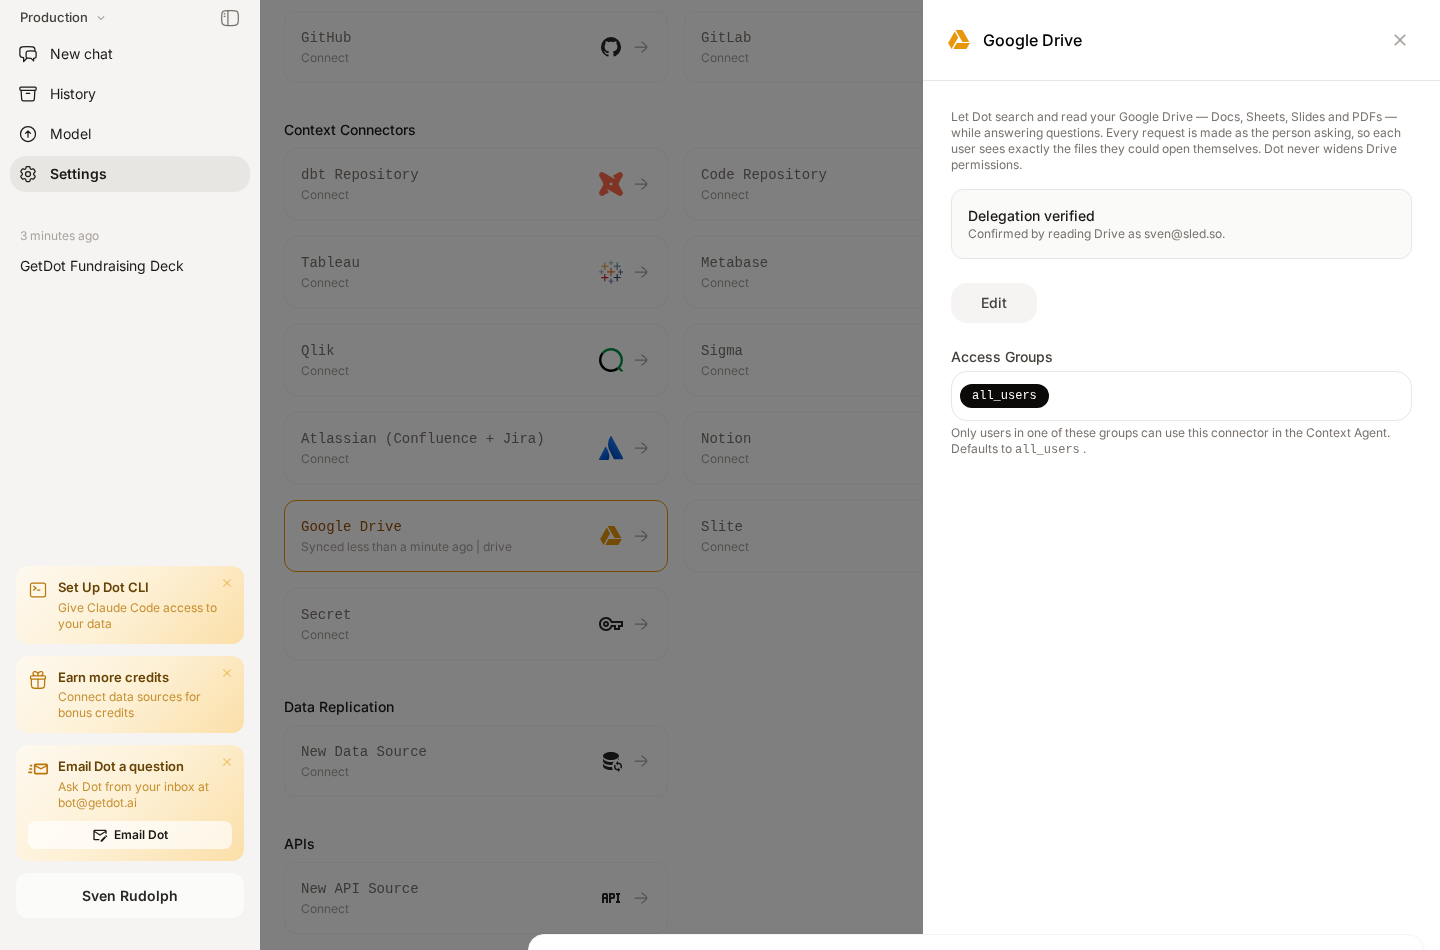
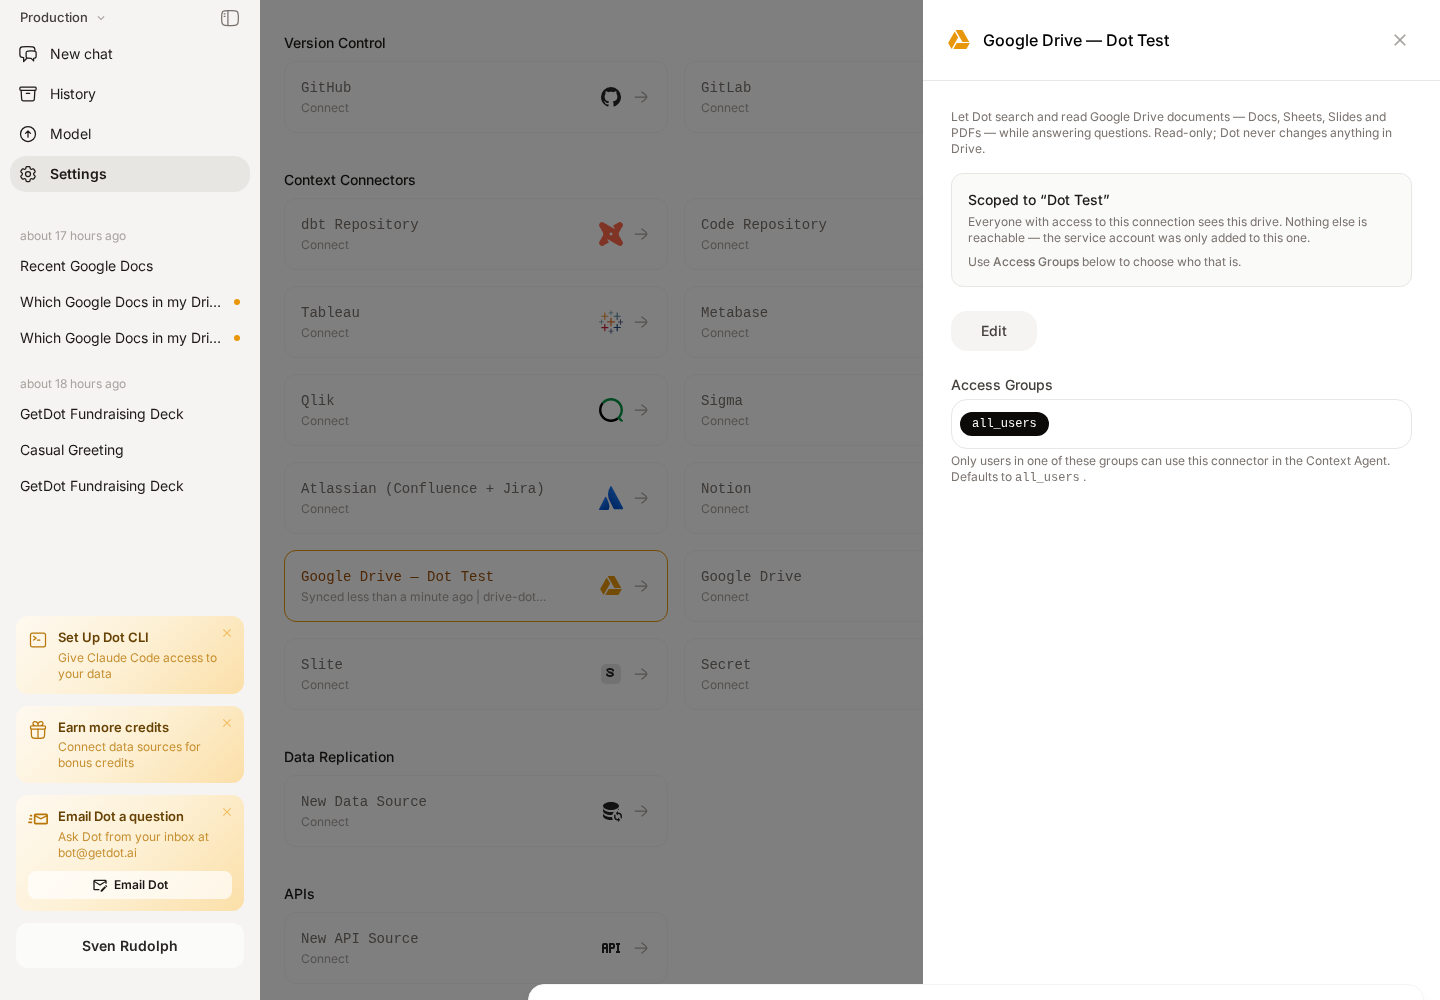
docs: Drive scope can be a folder, not only a shared drive
Shared drives require a Workspace edition that has them; sharing an
ordinary folder works everywhere. The page assumed shared drives
throughout, which would have read as 'not available' to anyone on a
smaller plan.

Screenshots replaced with real ones from a working folder-scoped
connection, including an answer citing the file it came from.

diff --git a/dot/dot/integrations/knowledge-bases/google-drive.md b/dot/dot/integrations/knowledge-bases/google-drive.md
@@ -1,7 +1,7 @@
 ---
 description: >-
   Let Dot search and read your Google Drive — Docs, Sheets, Slides, and PDFs —
-  scoped to exactly the drives you choose.
+  scoped to exactly the folders or drives you choose.
 ---
 
 # Google Drive
@@ -14,14 +14,14 @@ The connector is **read-only**. Dot never creates, edits, or deletes anything in
 
 You choose per connection, when you connect. Most workspaces want the first.
 
-### One shared drive (default)
+### A folder or shared drive (default)
 
-You add a service account to **one shared drive**, and everyone you grant access to sees that drive. The credential can reach nothing else — not because Dot filters it, but because Google never gave it access to anything else.
+You share **one folder** (or a shared drive) with a service account, and everyone you grant access to sees it. The credential can reach nothing else — not because Dot filters it, but because Google never gave it access to anything else. Sharing applies to everything inside the folder, so subfolders come along automatically.
 
-Different teams get different drives: repeat the setup with a **separate service account per drive**. Each becomes its own connection with its own Access Groups, so Finance sees the Finance drive and nobody else's.
+Different teams get different content: repeat the setup with a **separate service account per scope**. Each becomes its own connection with its own Access Groups, so Finance sees the Finance folder and nobody else's.
 
 {% hint style="info" %}
-**Why this is the default.** Dot chooses which credential to use; Google decides what that credential can see. Dot keeps no copy of your Drive permissions, so nothing can drift out of sync with them. It also needs no Workspace admin — adding a member to a shared drive is something any drive manager can do — and it works in Slack and Teams.
+**Why this is the default.** Dot chooses which credential to use; Google decides what that credential can see. Dot keeps no copy of your Drive permissions, so nothing can drift out of sync with them. It needs no Workspace admin — sharing a folder is something anyone who owns one can do, on every Workspace edition — and it works in Slack and Teams.
 {% endhint %}
 
 ### Each user's own Drive
@@ -44,11 +44,11 @@ What it costs: a Workspace **super-admin** must authorize the service account, t
 1. In [Google Cloud → Service accounts](https://console.cloud.google.com/iam-admin/serviceaccounts), create a service account and download a **JSON key**.
 2. Enable the [Google Drive API](https://console.cloud.google.com/apis/library/drive.googleapis.com) on the same project.
 
-### 2a. Shared drive mode
+### 2a. Folder or shared drive mode
 
-In Google Drive, open the shared drive you want Dot to read and add the service account's **`client_email`** as a member with **Viewer** access.
+In Google Drive, right-click the folder you want Dot to read → **Share**, and add the service account's **`client_email`** as a **Viewer**. Untick *Notify people* — a service account has no inbox. If your edition has shared drives, adding it as a member of one works the same way.
 
-That membership *is* the scope — there is nothing else to configure, and nothing else is reachable.
+What you shared *is* the scope — there is nothing else to configure, and nothing else is reachable.
 
 ### 2b. Per-user mode
 
@@ -69,13 +69,13 @@ Go to **Settings → Connections → Google Drive**, pick the mode, paste the ke
 
 <figure><img src="../../../.gitbook/assets/drive-connect-form.png" alt="The Google Drive connection form in Dot, showing the choice between one shared drive and each user's own Drive, with the service account key field and setup steps"><figcaption><p>The setup steps change with the mode you pick.</p></figcaption></figure>
 
-Dot verifies against Google **before saving**. In shared mode, if the account hasn't been added to any shared drive, the connect is refused and the error names the exact address to add — so a half-finished setup can't sit there looking connected and then fail for everyone later.
+Dot verifies against Google **before saving**. If the account can't see anything yet, the connect is refused and the error names the exact address to share with — so a half-finished setup can't sit there looking connected and then fail for everyone later.
 
-<figure><img src="../../../.gitbook/assets/drive-connected-verified.png" alt="A connected Google Drive card in Dot showing the scope it was verified against"><figcaption><p>A connection is only saved once Dot has actually read Drive with it.</p></figcaption></figure>
+<figure><img src="../../../.gitbook/assets/drive-connected-verified.png" alt="A connected Google Drive card in Dot, showing the folder it is scoped to and the access groups that may use it"><figcaption><p>The card names the scope, and Access Groups decides who can use it.</p></figcaption></figure>
 
 ### 4. Choose who can use it
 
-Set **Access Groups** on the connection. Only users in those groups can reach that drive through Dot.
+Set **Access Groups** on the connection. Only users in those groups can reach that content through Dot.
 
 ## Using it
 
@@ -86,6 +86,8 @@ Just ask. Dot decides when Drive is relevant:
 - *"What changed in the onboarding runbook recently?"*
 
 Dot searches **Drive's own full-text index**, which covers the contents of Docs, Sheets, Slides and PDFs — not just file names. If you can reach several drives, one search covers all of them and each result says which drive it came from.
+
+<figure><img src="../../../.gitbook/assets/drive-answer-example.png" alt="Dot answering a question from a document in Drive, with a link back to the source file"><figcaption><p>Answers cite the file they came from.</p></figcaption></figure>
 
 ## What Dot can do
 
@@ -126,7 +128,7 @@ Long documents are read in pages, so Dot can work through a large file without l
 
 - **Read-only.** Dot cannot create, edit, or delete Drive files.
 - **Google Workspace only** — personal Gmail accounts aren't supported.
-- **A connection covers a whole shared drive.** Scoping to a folder within one isn't available.
+- **A connection covers everything shared with its service account.** To scope more narrowly, share less — or use a second service account.
 - **Sheets are read one tab at a time** (see above).
 - **Per-user mode only:** unavailable from Slack and Teams, and a Dot user whose email isn't a Google account in your domain can't use it.
 - Very large files are read up to a bounded size, and very large downloads are refused rather than truncated.
@@ -135,8 +137,8 @@ Long documents are read in pages, so Dot can work through a large file without l
 
 | Message | What it means | What to do |
 |---|---|---|
-| *has not been added to any shared drive* | The service account is a member of nothing | Add its `client_email` to the shared drive as a Viewer |
-| *can see N shared drives* | One account was added to several drives | Give each drive its own service account |
+| *can't see anything yet* | Nothing has been shared with the service account | Share the folder with its `client_email` as a Viewer |
+| *is a member of N shared drives* | One account was added to several drives | Give each drive its own service account |
 | *Google would not issue Drive access for &lt;email&gt;* | Per-user mode: the Admin console authorization is missing, or that address isn't a Google account in your domain | Recheck the client ID and scope |
 | *Action requires permission `drive.…`* | That action is switched off for this user | Enable it under **Model → Skills → Drive** |
 | *Google denied access to this file* | The credential genuinely can't read it | Share the file with the service account, or with the user in per-user mode |
